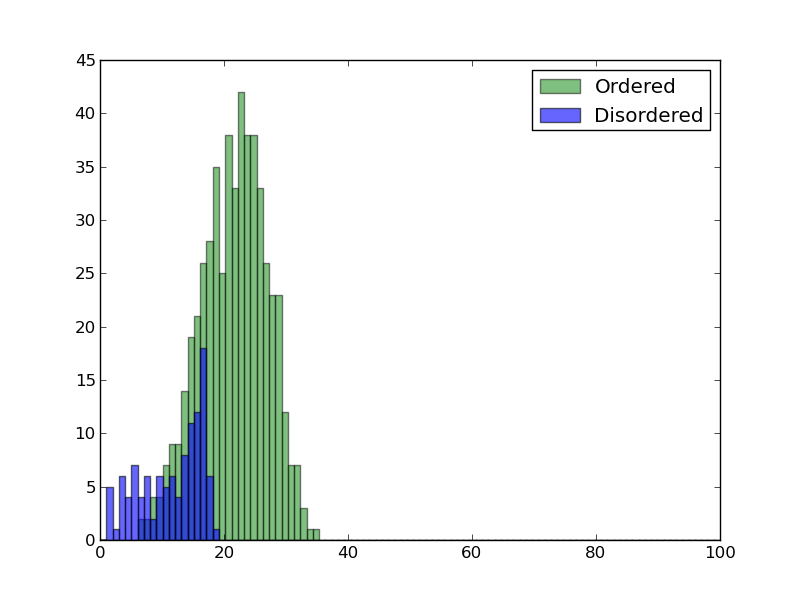
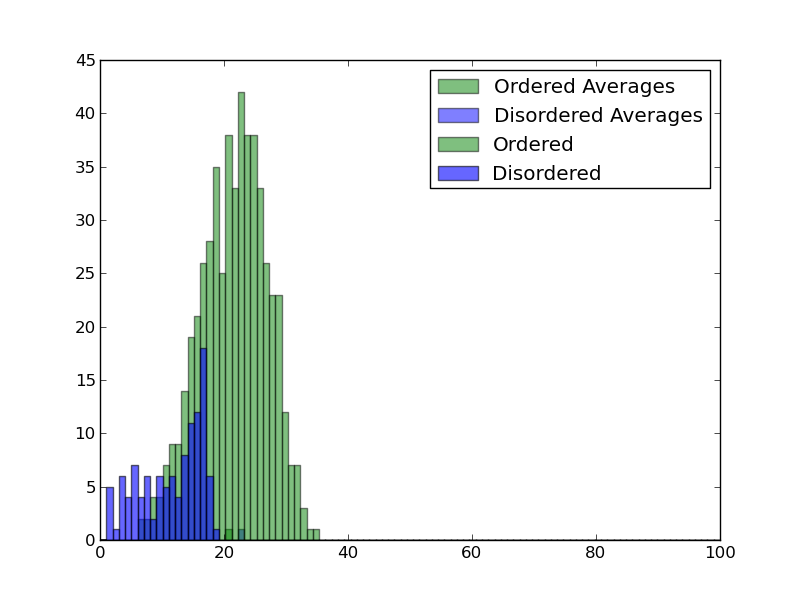
removes duplicate snps

Changed region(s): [[0.5312, 0.09, 0.9062, 0.33], [0.2812, 0.87, 0.3125, 0.9]]

diff --git a/snpToDisorder.py b/snpToDisorder.py
@@ -23,10 +23,10 @@ def snpToDisorder():
     n_avglist = []
     d_avglist = []
 
-    if not os.path.exists("/home/andrew/pymol/histograms"):
-        os.makedirs("/home/andrew/pymol/histograms")
+    if not os.path.exists("/home/andrew/Documents/CS/projects/andrewarul/histograms"):
+        os.makedirs("/home/andrew/Documents/CS/projects/andrewarul/histograms")
 
-    workbook = xlrd.open_workbook("/home/andrew/pymol/proteins.xlsx")
+    workbook = xlrd.open_workbook("/home/andrew/Documents/CS/projects/andrewarul/prot_test.xlsx")
     worksheet = workbook.sheet_by_name("Sheet1")
     num_rows = worksheet.nrows
     for cur_row in range(1, num_rows):
@@ -40,6 +40,8 @@ def snpToDisorder():
 
         s_input = worksheet.cell_value(cur_row, 4)
         snps = [int(s) for s in s_input.split(", ") if s.isdigit()]
+        # remove duplicate values
+        snps = removeDup(snps)
         d_input = worksheet.cell_value(cur_row, 5).split()
         d_list = []
         for i in range(1, len(d_input)):
@@ -57,14 +59,20 @@ def snpToDisorder():
             continue
         else:
             print "Data successfully obtained."
+
+        # check if chain is not A
+        print worksheet.cell_value(cur_row, 6)
+        ch = "a"
+        if worksheet.cell_value(cur_row, 6) != "":
+            ch = worksheet.cell_value(cur_row, 6)
         # create folder for obj
-        if not os.path.exists("/home/andrew/pymol/" + obj):
-            os.makedirs("/home/andrew/pymol/" + obj)
-        fout = open("/home/andrew/pymol/" + obj + "/n_results.txt", "w")  # normal results
-        fout_d = open("/home/andrew/pymol/" + obj + "/d_results.txt", "w")  # disordered results
+        if not os.path.exists("/home/andrew/Documents/CS/projects/andrewarul/" + obj):
+            os.makedirs("/home/andrew/Documents/CS/projects/andrewarul/" + obj)
+        fout = open("/home/andrew/Documents/CS/projects/andrewarul/" + obj + "/n_results.txt", "w")  # normal results
+        fout_d = open("/home/andrew/Documents/CS/projects/andrewarul/" + obj + "/d_results.txt", "w")  # disordered results
 
         # used for stat - numpy/matplotlib
-        fstat = open("/home/andrew/pymol/" + obj + "/avgs.txt", "w")
+        fstat = open("/home/andrew/Documents/CS/projects/andrewarul/" + obj + "/avgs.txt", "w")
         n_sum = 0  # sums and counts of all distances, for avg.
         d_sum = 0
         n_count = 0
@@ -75,7 +83,7 @@ def snpToDisorder():
         for i in range(len(snps)):
             for j in range(start, length + start - 1):
                 if snps[i] != j:
-                    temp_dist = calcDist(obj, i, j)
+                    temp_dist = calcDist(obj, i, j, ch)
                     # if temp_dist is -1, it means that the residue could not be found
                     if temp_dist == -1:
                         pass
@@ -116,8 +124,8 @@ def snpToDisorder():
             plt.hist(n_hist, bins, color="green", alpha=0.5, label="Ordered")
             plt.hist(d_hist, bins, color="blue", alpha=0.6, label="Disordered")
             plt.legend(loc="upper right", numpoints=1)
-            pylab.savefig("/home/andrew/pymol/" + obj + "/" + obj + "_hist.png")
-            pylab.savefig("/home/andrew/pymol/histograms/" + obj + "_hist.png")
+            pylab.savefig("/home/andrew/Documents/CS/projects/andrewarul/" + obj + "/" + obj + "_hist.png")
+            pylab.savefig("/home/andrew/Documents/CS/projects/andrewarul/histograms/" + obj + "_hist.png")
             print "Histogram generated.\n"
             plt.cla()
             plt.clf()
@@ -128,11 +136,11 @@ def snpToDisorder():
     plt.hist(n_avglist, bins, color="green", alpha=0.5, label="Ordered Averages")
     plt.hist(d_avglist, bins, color="blue", alpha=0.5, label="Disordered Averages")
     plt.legend(loc="upper right", numpoints=1)
-    pylab.savefig("/home/andrew/pymol/histograms/avg_hist.png")
+    pylab.savefig("/home/andrew/Documents/CS/projects/andrewarul/histograms/avg_hist.png")
     print "\n\nGENERAL HISTOGRAM GENERATED.\n"
 
     # run chisquare program (in same folder)
-    chisquare()
+    # chisquare()
 
     balance = 0
     for i in range(len(n_avglist)):
@@ -143,7 +151,7 @@ def snpToDisorder():
     print balance
 
 
-def calcDist(obj, l1, l2):
+def calcDist(obj, l1, l2, ch):
     # obj is the protein in question, l1, l2 are the positions of residues.
     # delete previous selections and displayed distances
     cmd.delete("dist")
@@ -152,8 +160,8 @@ def calcDist(obj, l1, l2):
     cmd.delete("Residue_2")
 
     # select two residues based on input, at positions l1 and l2 in the sequence
-    cmd.select("Residue_1", "resi {}".format(l1))
-    cmd.select("Residue_2", "resi {}".format(l2))
+    cmd.select("Residue_1", "resi {} and chain {}".format(l1, ch))
+    cmd.select("Residue_2", "resi {} and chain {}".format(l2, ch))
 
     #the underscores ARE IMPORTANT
     distance = cmd.distance("dist", "Residue_1", "Residue_2")
@@ -179,5 +187,10 @@ def stat(lst):
     stddev /= (len(lst) - 1)
     return [mean, stddev ** 2]
 
+
+def removeDup(seq):
+    s = set()
+    s_a = s.add
+    return [x for x in seq if not(x in s or s_a(x))]
 
 cmd.extend("snpToDisorder", snpToDisorder)
